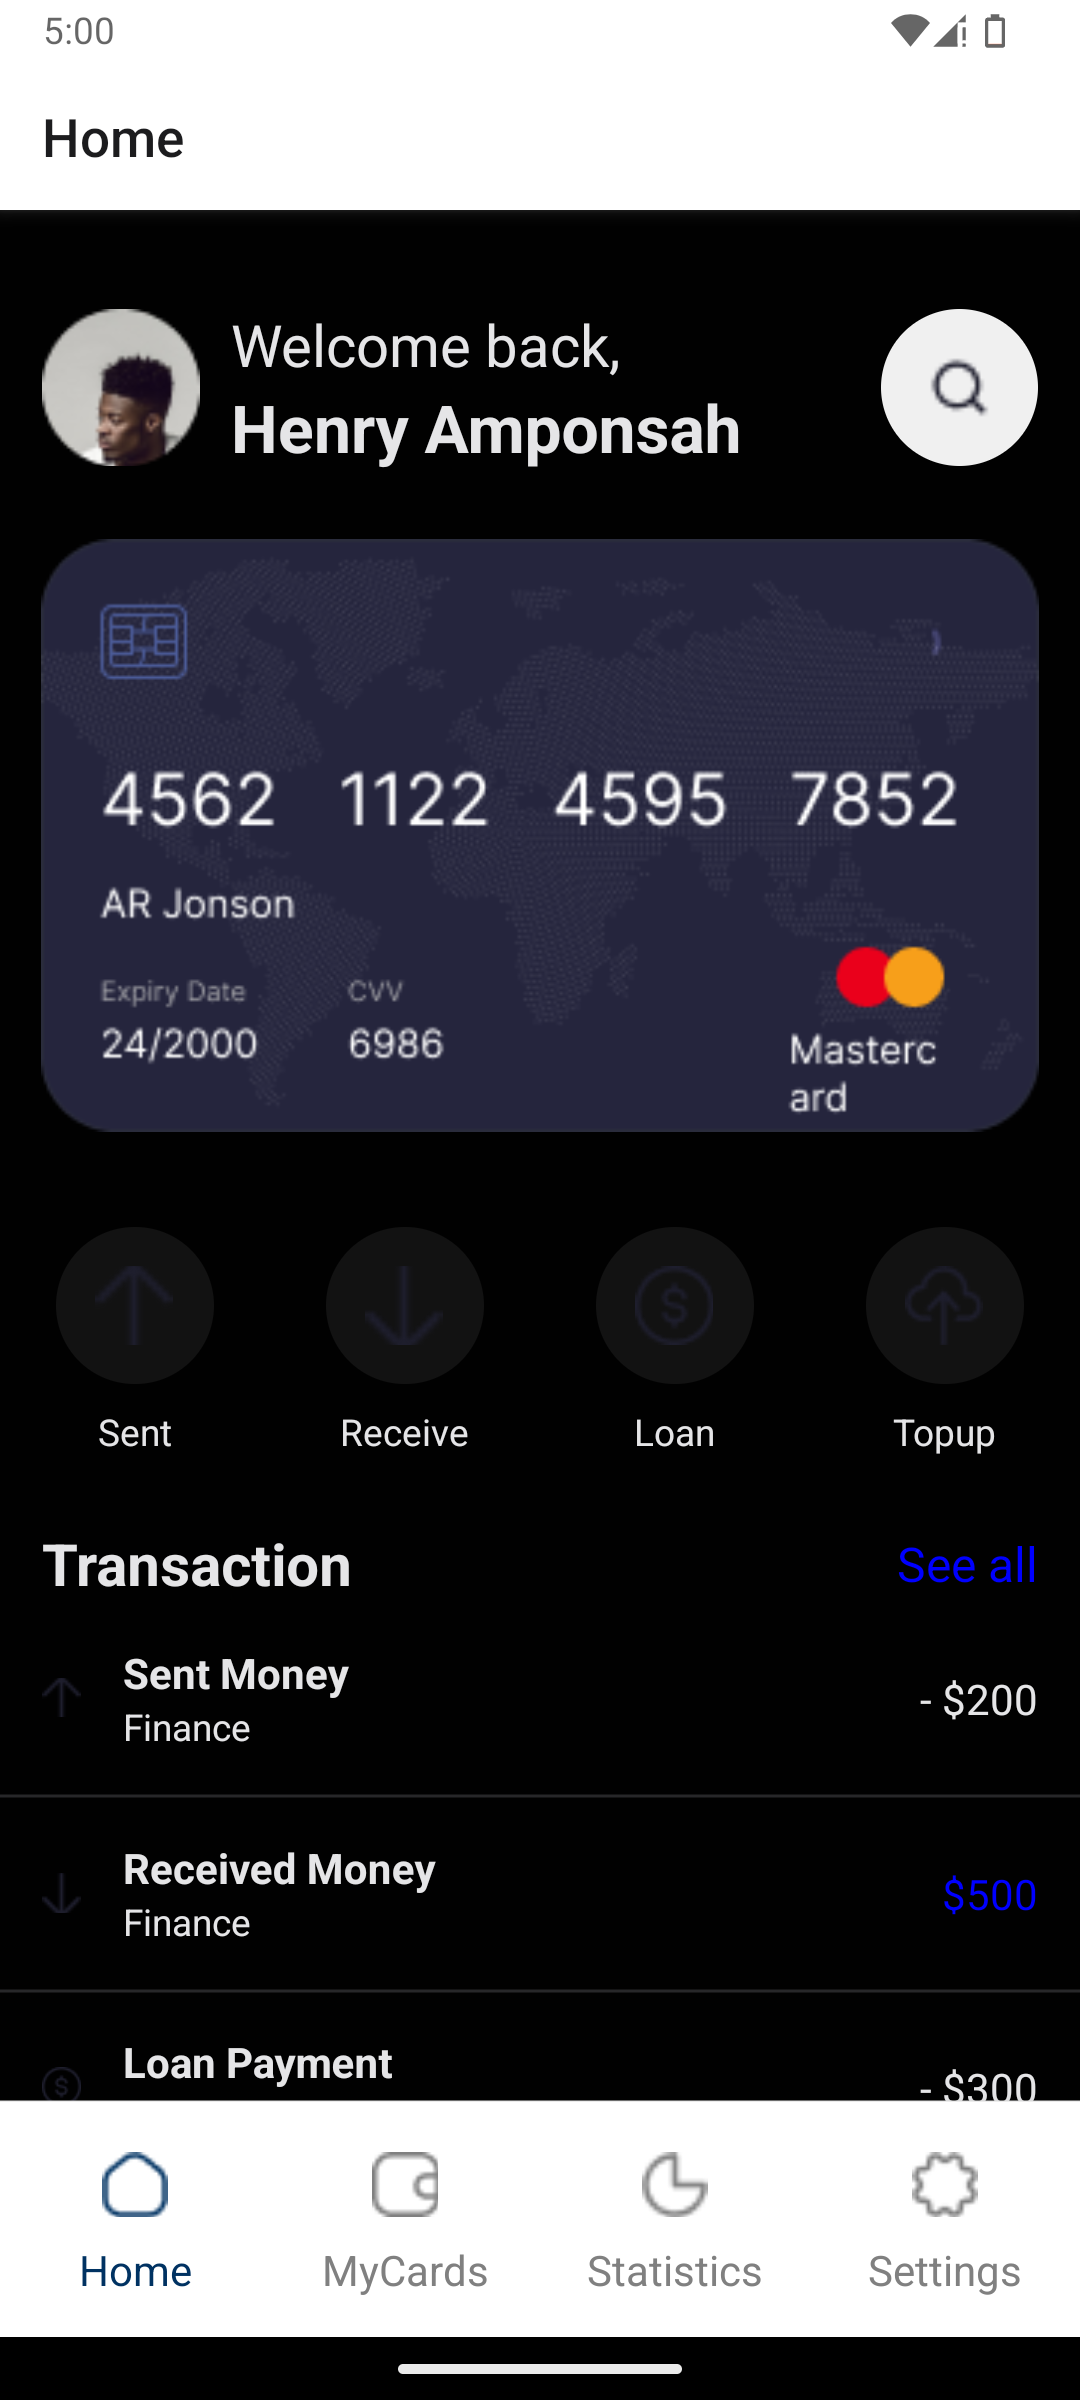
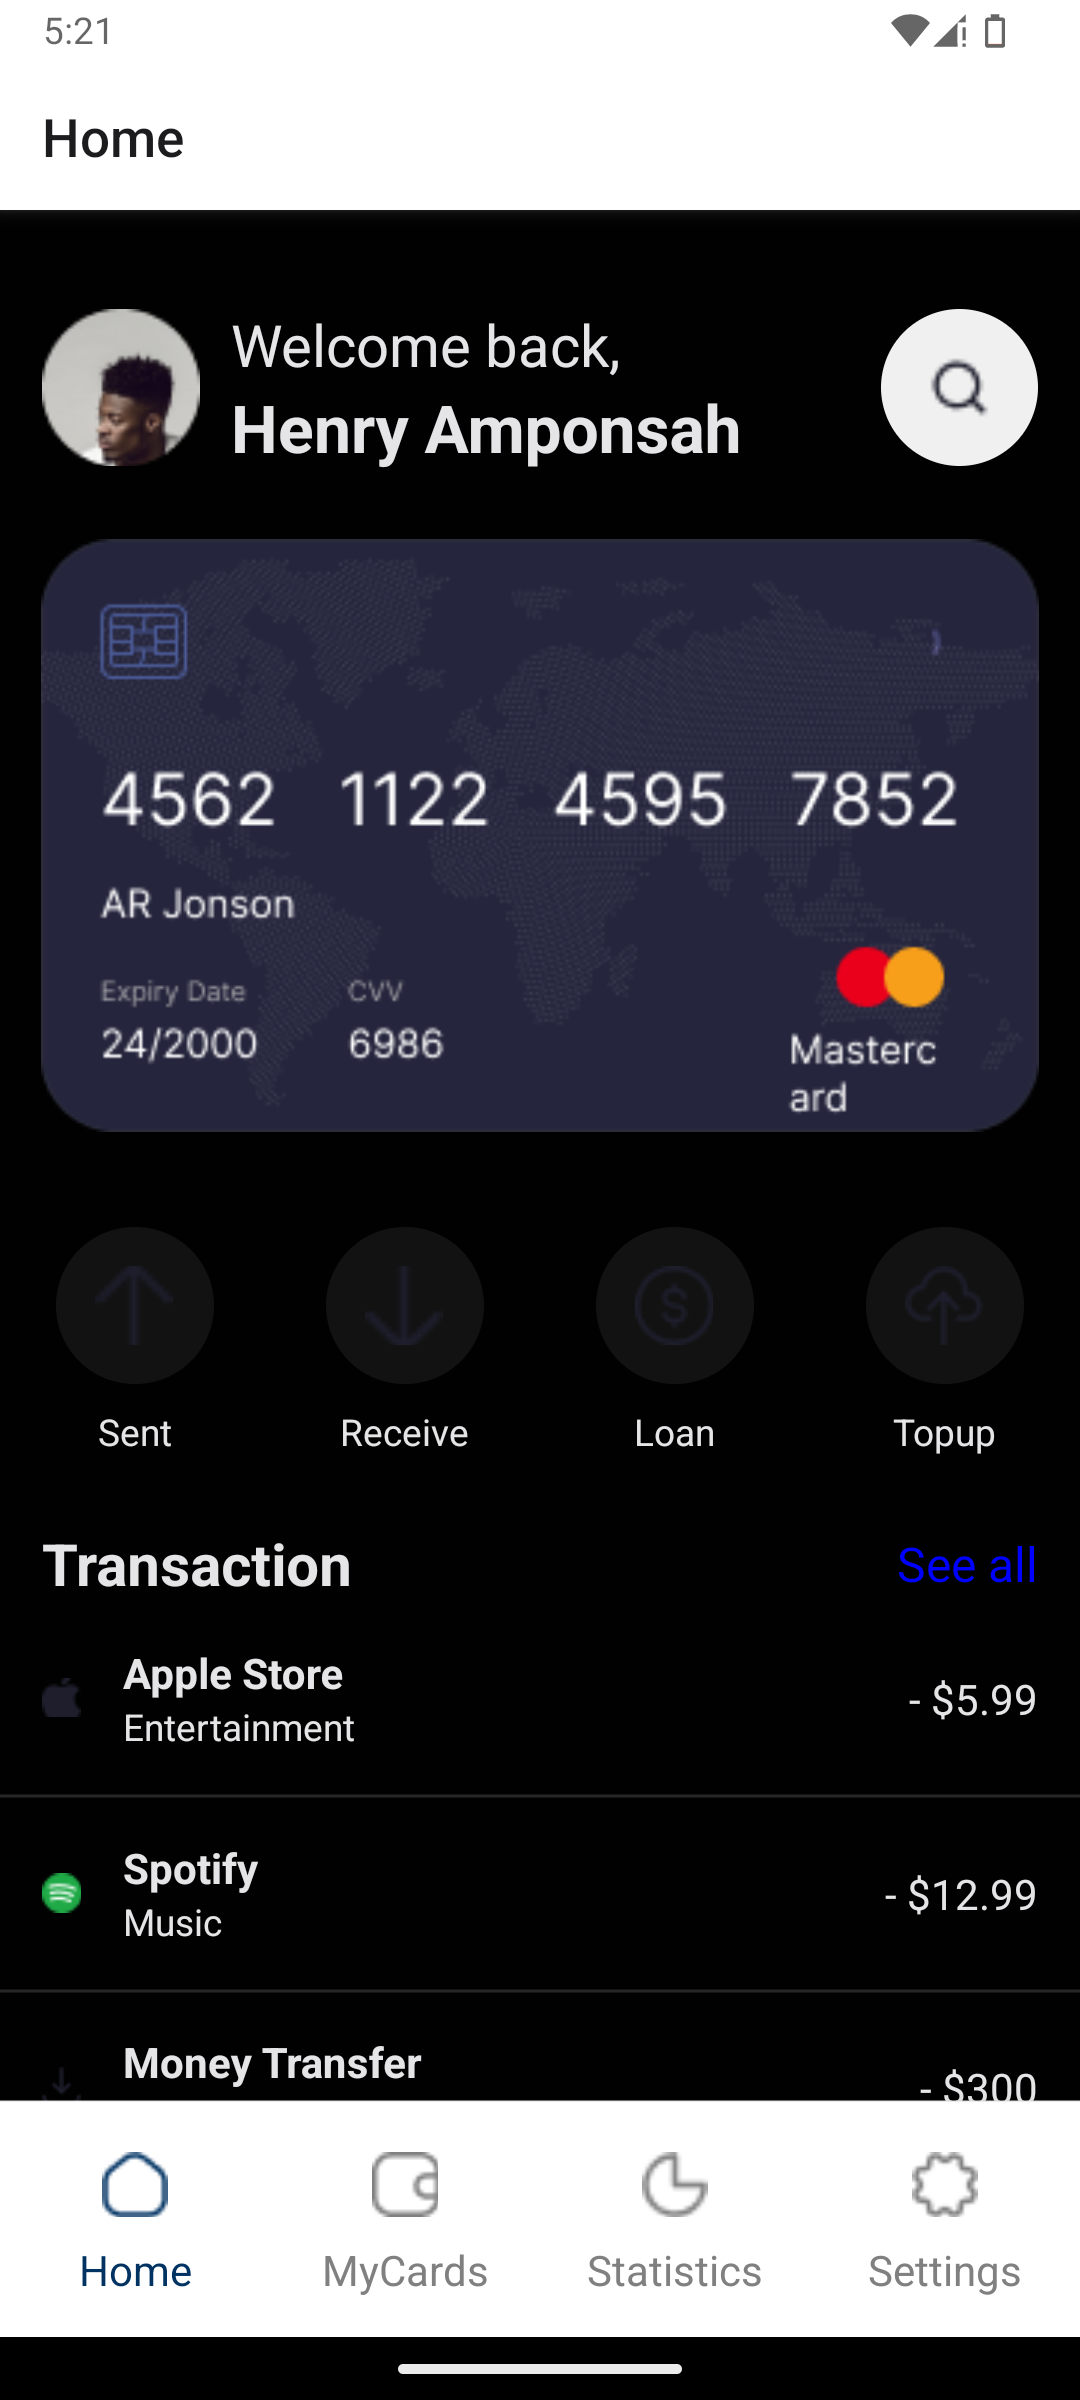
made changes to the screenshots

diff --git a/components/TransactionList.jsx b/components/TransactionList.jsx
@@ -5,30 +5,30 @@ import TransactionItem from './TransactionItem';
 const transactions = [
   {
     id: '1',
-    icon: require('../assets/Images/sent.png'),
-    title: 'Sent Money',
-    category: 'Finance',
-    amount: -200,
+    icon: require('../assets/Images/apple.png'),
+    title: 'Apple Store',
+    category: 'Entertainment',
+    amount: -5.99,
   },
   {
     id: '2',
-    icon: require('../assets/Images/receive.png'),
-    title: 'Received Money',
-    category: 'Finance',
-    amount: 500,
+    icon: require('../assets/Images/spotify.png'),
+    title: 'Spotify',
+    category: 'Music',
+    amount: -12.99,
   },
   {
     id: '3',
-    icon: require('../assets/Images/loan.png'),
-    title: 'Loan Payment',
-    category: 'Finance',
+    icon: require('../assets/Images/moneyTransfer.png'),
+    title: 'Money Transfer',
+    category: 'Transaction',
     amount: -300,
   },
   {
     id: '4',
-    icon: require('../assets/Images/topUp.png'),
-    title: 'Mobile Topup',
-    category: 'Finance',
+    icon: require('../assets/Images/grocery.png'),
+    title: 'Grocery',
+    category: 'Shopping',
     amount: -50,
   },
 ];

diff --git a/README.md b/README.md
@@ -11,4 +11,6 @@ features, transaction list and others. The **Settings** screen was created there
 **MyCards** and **Statistics** screens. All these were done in the **normal theme _(light mode)_**. Then lastly, the **dark theme**  
 feature when the theme button is toggled was implemented into the application.
 
-## Application In The Light Mode
+## Application In The Light Mode [Running on Google Pixel 7a]
+
+### Home Screen
